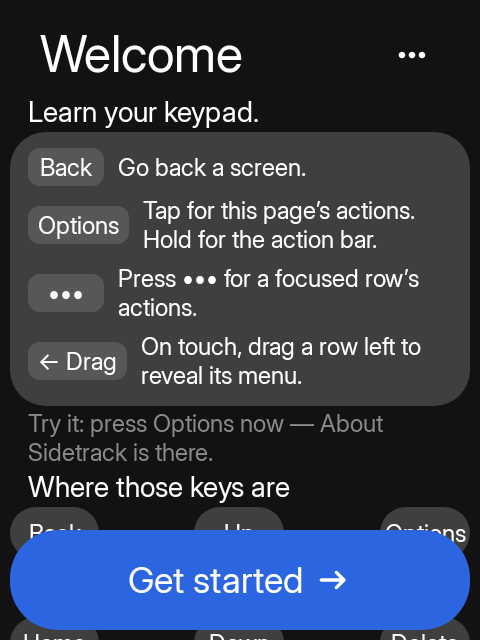
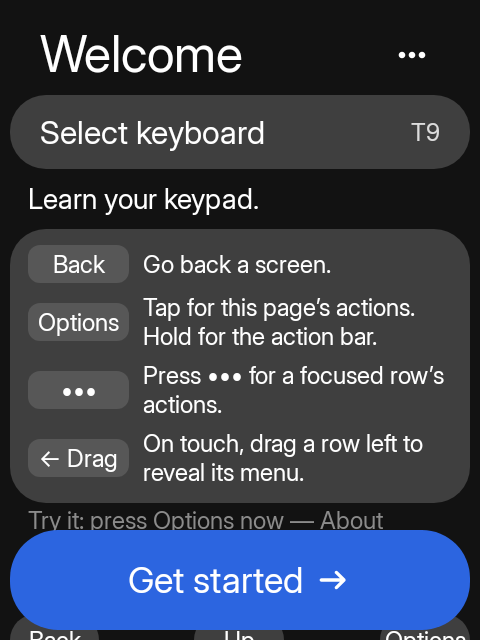
feat(welcome): open on the keyboard, and line the page up
The selector is the first thing a new listener has to agree with, so it now
opens the page instead of sitting under the guide. It is called "Select
keyboard" and prints only the module's own name: "· Sidekit" explained an
ownership the row now acts on anyway, and "· tap to switch" explained a tap
that a row in a list of rows already invites.

The key cheat sheet measured each keycap against its own label, so the
sentences beside them started at four different x positions. The symbols now
share one column, sized to the widest of them ("← Drag"), and every sentence
starts on the same axis.

The list only pads its rows three pixels apart, which made the selector, the
card and the guide read as one continuous column. Each group now opens with the
page gap above it.

diff --git a/app/src/test/java/io/github/manuelrtsch/sidetrack/SidetrackOnboardingTest.kt b/app/src/test/java/io/github/manuelrtsch/sidetrack/SidetrackOnboardingTest.kt
@@ -27,6 +27,17 @@ class SidetrackOnboardingTest {
 
     private val context: Context = ApplicationProvider.getApplicationContext()
 
+    /**
+     * The selector prints only the module's own name, so it is found by its title and the name is
+     * checked on the page - which also catches the "· Sidekit" and "· tap to switch" suffixes
+     * that used to explain the row.
+     */
+    private fun assertSelectedKeyboard(label: String) {
+        compose.onNode(hasScrollToIndexAction()).performScrollToNode(hasText("Select keyboard"))
+        compose.onNodeWithText("Select keyboard").assertExists()
+        compose.onNodeWithText(label).assertExists()
+    }
+
     @Before fun clearLocalSettings() {
         context.getSharedPreferences(SidetrackLocalSettings.FILE, Context.MODE_PRIVATE)
             .edit().clear().commit()
@@ -115,13 +126,13 @@ class SidetrackOnboardingTest {
             }
         }
 
-        compose.onNode(hasScrollToIndexAction()).performScrollToNode(hasText("Keyboard"))
         // T9 is the standalone default, so the first step is the mini QWERTY.
-        compose.onNodeWithText("T9 · tap to switch").performClick()
-        compose.onNodeWithText("Mini QWERTY · tap to switch").assertExists()
+        assertSelectedKeyboard("T9")
+        compose.onNodeWithText("Select keyboard").performClick()
+        assertSelectedKeyboard("Mini QWERTY")
         // And on to the Sundial, whose rows are the ones a new listener has to read.
-        compose.onNodeWithText("Mini QWERTY · tap to switch").performClick()
-        compose.onNodeWithText("Sundial · tap to switch").assertExists()
+        compose.onNodeWithText("Select keyboard").performClick()
+        assertSelectedKeyboard("Sundial")
         compose.onNode(hasScrollToIndexAction()).performScrollToNode(hasText("Centre"))
         compose.onNodeWithText("Tap to play or pause. Hold to confirm.").assertExists()
     }
@@ -139,11 +150,10 @@ class SidetrackOnboardingTest {
             }
         }
 
-        compose.onNode(hasScrollToIndexAction()).performScrollToNode(hasText("Keyboard"))
-        compose.onNodeWithText("T9 · Sidekit · tap to switch").performClick()
+        compose.onNodeWithText("Select keyboard").performClick()
 
         // A host owns the choice, but the page it owns the instructions on can still correct it.
-        compose.onNodeWithText("Mini QWERTY · Sidekit · tap to switch").assertExists()
+        assertSelectedKeyboard("Mini QWERTY")
         // There is no Keyboard screen to open on a host-backed install.
         compose.onNodeWithText("Keyboard settings").assertDoesNotExist()
     }
@@ -171,18 +181,16 @@ class SidetrackOnboardingTest {
         // What Sidekit's detection does when the game controller's buttons arrive.
         compose.runOnIdle { keypad.useModule(KeypadModule.GamePad) }
 
-        compose.onNode(hasScrollToIndexAction()).performScrollToNode(hasText("Keyboard"))
-        compose.onNodeWithText("Game controller · Sidekit · tap to switch").assertExists()
+        assertSelectedKeyboard("Game controller")
         compose.onNode(hasScrollToIndexAction()).performScrollToNode(hasText("X"))
         compose.onNodeWithText("Go back a screen.").assertExists()
 
         // A manual cycle is a preview; the attached module wins as soon as it changes.
-        compose.onNode(hasScrollToIndexAction()).performScrollToNode(hasText("Keyboard"))
-        compose.onNodeWithText("Game controller · Sidekit · tap to switch").performClick()
-        compose.onNodeWithText("T9 · Sidekit · tap to switch").assertExists()
+        compose.onNode(hasScrollToIndexAction()).performScrollToNode(hasText("Select keyboard"))
+        compose.onNodeWithText("Select keyboard").performClick()
+        assertSelectedKeyboard("T9")
         compose.runOnIdle { keypad.useModule(KeypadModule.Sundial) }
-        compose.onNode(hasScrollToIndexAction()).performScrollToNode(hasText("Keyboard"))
-        compose.onNodeWithText("Sundial · Sidekit · tap to switch").assertExists()
+        assertSelectedKeyboard("Sundial")
     }
 
     @Test
@@ -214,9 +222,7 @@ class SidetrackOnboardingTest {
             }
         }
 
-        compose.onNode(hasScrollToIndexAction())
-            .performScrollToNode(hasText("T9 · Sidekit · tap to switch"))
-        compose.onNodeWithText("T9 · Sidekit · tap to switch").assertExists()
+        assertSelectedKeyboard("T9")
         compose.onNodeWithText("Keypad Back key").assertDoesNotExist()
         assertFalse(SidetrackLocalSettings(context).hasSeenOnboarding())
     }

diff --git a/app/src/main/java/io/github/manuelrtsch/sidetrack/SidetrackKeypadEssentials.kt b/app/src/main/java/io/github/manuelrtsch/sidetrack/SidetrackKeypadEssentials.kt
@@ -9,12 +9,15 @@ import androidx.compose.foundation.layout.Row
 import androidx.compose.foundation.layout.fillMaxWidth
 import androidx.compose.foundation.layout.height
 import androidx.compose.foundation.layout.padding
-import androidx.compose.foundation.layout.widthIn
+import androidx.compose.foundation.layout.width
 import androidx.compose.runtime.Composable
 import androidx.compose.runtime.remember
 import androidx.compose.ui.Alignment
 import androidx.compose.ui.Modifier
 import androidx.compose.ui.draw.clip
+import androidx.compose.ui.platform.LocalDensity
+import androidx.compose.ui.text.rememberTextMeasurer
+import androidx.compose.ui.unit.Dp
 import androidx.compose.ui.unit.dp
 import hrln.interactive.sidekit.design.components.SidekitText
 import hrln.interactive.sidekit.design.input.KeypadModule
@@ -109,7 +112,7 @@ internal fun keypadEssentials(module: KeypadModule): List<KeypadEssential> {
 }
 
 /**
- * The compact key cheat sheet shared by Welcome and Keyboard. It is deliberately not a diagram:
+ * The compact key cheat sheet on Welcome. It is deliberately not a diagram:
  * the full [hrln.interactive.sidekit.sdk.settings.KeypadGuide] is a reference and lives behind
  * "Keypad guide", while these rows are the actions a new listener has to know immediately.
  */
@@ -126,6 +129,17 @@ internal fun KeypadEssentials(
     val essentials = remember(module) { keypadEssentials(module) }
     val surface = SidekitTheme.colors.surfaceA3
     val contentColor = SidekitTheme.colors.contentColorFor(surface)
+    // The symbols share one column, measured from the widest of them, so every sentence to their
+    // right starts on the same axis instead of stepping in and out with the width of its key.
+    val measurer = rememberTextMeasurer()
+    val keyStyle = SidekitTheme.typography.small
+    val density = LocalDensity.current
+    val keycapWidth = remember(essentials, keyStyle, density) {
+        val widest = (essentials.map { it.key } + TOUCH_KEY)
+            .maxOf { measurer.measure(it, keyStyle).size.width }
+        // Never narrower than a keycap reads as a key, and never narrow enough to clip a label.
+        (with(density) { widest.toDp() } + KEYCAP_PADDING * 2).coerceAtLeast(76.dp)
+    }
     Column(modifier, verticalArrangement = Arrangement.spacedBy(SidekitTheme.spacing.pageGap)) {
         Column(
             Modifier
@@ -143,7 +157,7 @@ internal fun KeypadEssentials(
                     verticalAlignment = Alignment.CenterVertically,
                     horizontalArrangement = Arrangement.spacedBy(14.dp)
                 ) {
-                    Keycap(essential.key, highlighted = highlighted)
+                    Keycap(essential.key, keycapWidth, highlighted = highlighted)
                     SidekitText(
                         essential.detail,
                         Modifier.weight(1f),
@@ -159,7 +173,7 @@ internal fun KeypadEssentials(
                 verticalAlignment = Alignment.CenterVertically,
                 horizontalArrangement = Arrangement.spacedBy(14.dp)
             ) {
-                Keycap("← Drag")
+                Keycap(TOUCH_KEY, keycapWidth)
                 SidekitText(
                     "On touch, drag a row left to reveal its menu.",
                     Modifier.weight(1f),
@@ -181,17 +195,23 @@ internal fun KeypadEssentials(
     }
 }
 
+/** The label of the touch gesture, which is a keycap like the rest so the column stays one width. */
+private const val TOUCH_KEY = "← Drag"
+
+/** The space either side of a keycap's label. */
+private val KEYCAP_PADDING = 10.dp
+
 @Composable
-private fun Keycap(label: String, highlighted: Boolean = false) {
+private fun Keycap(label: String, width: Dp, highlighted: Boolean = false) {
     // The accent is the case colour every live action wears, so the answer reads as "that key, now".
     val color = if (highlighted) SidekitTheme.colors.primaryA2 else SidekitTheme.colors.surfaceA4
     Box(
         Modifier
             .height(38.dp)
-            .widthIn(min = 76.dp)
+            .width(width)
             .clip(SidekitTheme.shapes.control)
             .background(color)
-            .padding(horizontal = 10.dp),
+            .padding(horizontal = KEYCAP_PADDING),
         contentAlignment = Alignment.Center
     ) {
         SidekitText(

diff --git a/app/src/main/java/io/github/manuelrtsch/sidetrack/SidetrackOnboardingScreen.kt b/app/src/main/java/io/github/manuelrtsch/sidetrack/SidetrackOnboardingScreen.kt
@@ -92,15 +92,8 @@ fun SidetrackOnboardingScreen(
                 SidetrackDebug.log("welcome module=$shown custom=$customModule")
             }
     }
-    val keyboardLabel = when {
-        custom != null -> "${module.label} · custom"
-        hostBacked -> "${module.label} · Sidekit"
-        else -> module.label
-    }
-
     SidetrackOnboardingContent(
         module = module,
-        keyboardLabel = keyboardLabel,
         customMapping = custom != null,
         followsHardware = manual == null,
         canOpenKeyboard = !hostBacked,
@@ -137,7 +130,6 @@ fun SidetrackOnboardingScreen(
 @Composable
 internal fun SidetrackOnboardingContent(
     module: KeypadModule,
-    keyboardLabel: String,
     customMapping: Boolean = false,
     /** False once the user cycled by hand: their choice outlives the keys they press after it. */
     followsHardware: Boolean = true,
@@ -172,7 +164,6 @@ internal fun SidetrackOnboardingContent(
             list = list,
             modifier = keys.modifier,
             module = module,
-            keyboardLabel = keyboardLabel,
             customMapping = customMapping,
             canOpenKeyboard = canOpenKeyboard,
             onOpenKeyboard = onOpenKeyboard,
@@ -238,7 +229,6 @@ private fun SidetrackKeypadWelcomeList(
     list: LazyListState,
     modifier: Modifier,
     module: KeypadModule,
-    keyboardLabel: String,
     customMapping: Boolean,
     canOpenKeyboard: Boolean,
     onOpenKeyboard: () -> Unit,
@@ -248,11 +238,19 @@ private fun SidetrackKeypadWelcomeList(
     pressed: KeypadHabit?,
     optionsOpen: Boolean
 ) {
+    // A list only pads its rows a few pixels apart, which reads as one column. The page's groups
+    // get a wider break so the selector, the card and the guide each read as their own block.
+    val section = Modifier.padding(top = SidekitTheme.spacing.pageGap)
     SidekitList(padding, modifier = modifier, state = list) {
+        // The selector opens the page: on a first run the module in front of the user is the first
+        // thing to agree on, and on a host-backed install this is the only place to change it.
+        item(key = "keyboard") {
+            SidekitCompactItem("Select keyboard", secondary = module.label, onClick = onCycleKeyboard)
+        }
         item(key = "intro") {
             SidekitText(
                 "Learn your keypad.",
-                Modifier.padding(horizontal = 18.dp),
+                section.padding(horizontal = 18.dp),
                 style = SidekitTheme.typography.caption,
                 maxLines = 1
             )
@@ -260,6 +258,7 @@ private fun SidetrackKeypadWelcomeList(
         item(key = "essentials") {
             KeypadEssentials(
                 module,
+                modifier = section,
                 customMapping = customMapping,
                 pressed = pressed,
                 optionsOpen = optionsOpen
@@ -277,7 +276,7 @@ private fun SidetrackKeypadWelcomeList(
         item(key = "guideTitle") {
             SidekitText(
                 "Where those keys are",
-                Modifier.padding(horizontal = 18.dp),
+                section.padding(horizontal = 18.dp),
                 style = SidekitTheme.typography.caption,
                 maxLines = 1
             )
@@ -294,15 +293,6 @@ private fun SidetrackKeypadWelcomeList(
                 )
             }
         }
-        // The rows above teach the attached module, and a host owns the choice, so this row is
-        // where it can be corrected: tapping steps to the next module and the rows follow.
-        item(key = "keyboard") {
-            SidekitCompactItem(
-                "Keyboard",
-                secondary = "$keyboardLabel · tap to switch",
-                onClick = onCycleKeyboard
-            )
-        }
         if (canOpenKeyboard) {
             item(key = "keyboardSettings") {
                 val backStatus = when {
@@ -312,6 +302,7 @@ private fun SidetrackKeypadWelcomeList(
                 }
                 SidekitCompactItem(
                     "Keyboard settings",
+                    modifier = section,
                     secondary = listOfNotNull("Input, mapping, guide", backStatus).joinToString(" · ") + " ›",
                     onClick = onOpenKeyboard
                 )

diff --git a/app/src/test/java/io/github/manuelrtsch/sidetrack/SidetrackScreenshotTest.kt b/app/src/test/java/io/github/manuelrtsch/sidetrack/SidetrackScreenshotTest.kt
@@ -437,7 +437,6 @@ class SidetrackScreenshotTest {
     @Test fun onboarding() = shoot("sidetrack_welcome") {
         SidetrackOnboardingContent(
             module = KeypadModule.T9,
-            keyboardLabel = KeypadModule.T9.label,
             canOpenKeyboard = true,
             onOpenKeyboard = {},
             canManageKeypadAccess = true,
